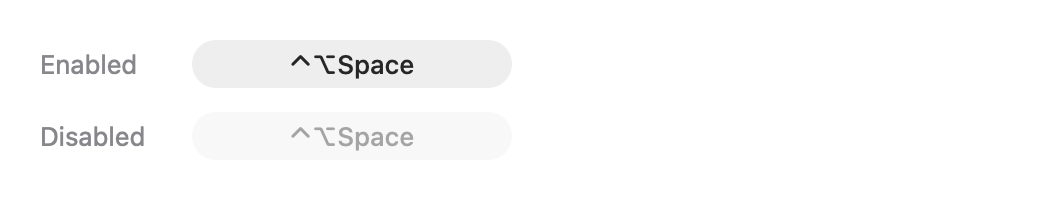
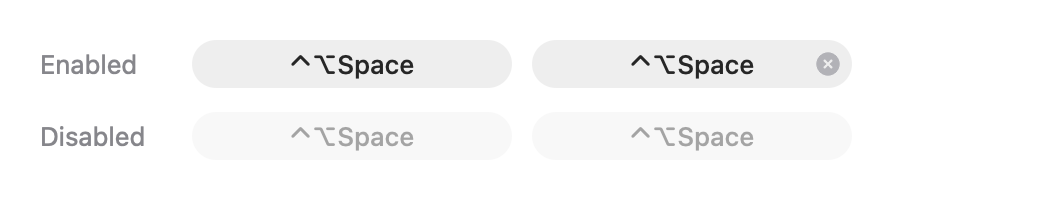
gallery: tests in both themes, fresh pictures

Changed region(s): [[0.5846, 0.27, 0.7385, 0.39], [0.5846, 0.63, 0.7385, 0.75], [0.7692, 0.27, 0.8308, 0.39]]

diff --git a/tests/gallery.rs b/tests/gallery.rs
@@ -2,17 +2,26 @@
 
 //! Harness tests for `examples/gallery.rs`: every block has a page that builds, named by the
 //! block; the sidebar turns the pages; a block's disabled variant reads disabled and its sizes
-//! differ; a block alone is as high as its variants; the alert asks and counts its action; and
-//! `docs/api.md` is the gallery's table, with a picture for every block.
+//! differ; a block alone is as high as its variants; in each appearance the widgets work and draw
+//! in its theme (a check box checks in its accent, a switch slides, the slider drags, a picker
+//! chooses by letters, a segment picks, a tooltip shows, a recorder records and its ⊗ clears,
+//! the alert asks in its theme, Escape closes it, its action counts), the search field draws in
+//! its theme and clears from its ⊗; assistive technology reads each widget by its role, the ⊗
+//! marks beside their controls; and `docs/api.md` and its pictures are the gallery's.
 
 #[path = "../examples/gallery.rs"]
 // The example sets the Windows subsystem, an attribute of its own crate, not of this module.
 #[allow(dead_code, unused_attributes)]
 mod gallery;
 
+mod common;
+
+use std::time::Duration;
+
+use common::{diff, mid, px, reads};
 use gallery::*;
 use nimbo::ui::{Action, Role};
-use nimbo::{Harness, Id, Size};
+use nimbo::{Appearance, Event, Harness, Id, Modifiers, NamedKey, Rect, Size, Theme, alpha, mix};
 
 type H = Harness<Gallery>;
 
@@ -26,12 +35,29 @@ fn page(name: &str) -> usize {
   BLOCKS.iter().position(|b| b.name == name).unwrap_or_else(|| panic!("no {name}"))
 }
 
-/// The id of the first node assistive technology reads as `role` named `name`.
-fn find(h: &H, role: Role, name: &str) -> Id {
+/// The first node assistive technology reads as `role` named `name`, in the enabled line: its
+/// id and rect.
+fn node(h: &H, role: Role, name: &str) -> (Id, Rect) {
   let t = h.a11y_tree();
   let n = t.nodes.iter().find(|n| n.props.role == role && t.str(n.props.name) == name);
-  n.unwrap_or_else(|| panic!("no {role:?} {name:?} in\n{}", h.a11y())).id
+  let n = n.unwrap_or_else(|| panic!("no {role:?} {name:?} in\n{}", h.a11y()));
+  (n.id, n.rect)
 }
+
+fn find(h: &H, role: Role, name: &str) -> Id {
+  node(h, role, name).0
+}
+
+/// The gallery on the page of block `name` in `look`.
+fn on(name: &str, look: Appearance) -> H {
+  let mut h = gallery(page(name), false);
+  h.event(Event::Appearance(look));
+  h.frame();
+  h
+}
+
+const LOOKS: [(Appearance, Theme); 2] =
+  [(Appearance::LIGHT, Theme::PLATES_LIGHT), (Appearance::DARK, Theme::PLATES_DARK)];
 
 #[test]
 fn every_block_has_a_page_named_by_it() {
@@ -57,7 +83,8 @@ fn the_sidebar_turns_the_pages() {
   );
 }
 
-/// The switch reads on in its enabled line, disabled in its disabled one; a large one is wider.
+/// The switch reads on in its enabled line, disabled in its disabled one; a large one is wider;
+/// a small button is lower than the regular one, a large one higher.
 #[test]
 fn variants_are_disabled_and_sized() {
   let h = gallery(page("Switch"), false);
@@ -70,15 +97,196 @@ fn variants_are_disabled_and_sized() {
   let widths: Vec<f32> =
     t.nodes.iter().filter(|n| n.props.role == Role::Switch).map(|n| n.rect.w).collect();
   assert!(widths[3] > widths[0], "large wider: {widths:?}");
+  let h = gallery(page("Button"), false);
+  let t = h.a11y_tree();
+  let hs: Vec<f32> = (t.nodes.iter())
+    .filter(|n| n.props.role == Role::Button && t.str(n.props.name) == "Bordered")
+    .map(|n| n.rect.h)
+    .collect();
+  assert!(hs.len() == 4 && hs[2] < hs[0] && hs[3] > hs[0], "small, large: {hs:?}");
 }
 
-/// Alone, a block's window is as high as its variants.
+/// Alone, a block's window is as wide as a page and as high as its variants, whatever it was.
 #[test]
 fn a_block_alone_is_as_high_as_its_variants() {
-  let h = gallery(page("Button"), true);
-  let size = h.size();
-  assert_eq!(size.w, WIDTH);
-  assert!(size.h > 100.0 && size.h < 300.0, "{size:?}");
+  for name in ["Button", "List sections", "Text"] {
+    let mut h = gallery(page(name), true);
+    h.frame();
+    let (size, block) = (h.size(), h.rect(Id::of(BLOCK)).unwrap());
+    assert_eq!((size.w, size.h), (WIDTH, block.h.ceil()), "{name}");
+  }
+}
+
+/// In each appearance: a check box checked in its theme's accent, a switch that slides, the
+/// slider dragged, a picker choosing by letters, a segment picked, a tooltip after a rest, a
+/// recorder recording a chord and its ⊗ clearing it, the alert in its theme.
+#[test]
+fn every_widget_in_both_themes() {
+  for (look, t) in LOOKS {
+    let mut h = on("Check box", look);
+    let (check, r) = node(&h, Role::CheckBox, "Wrap");
+    h.click_id(check);
+    h.leave();
+    h.wait(Duration::from_millis(300));
+    assert!(h.app().wrap);
+    assert_eq!(h.render().pixel(r.x + 8.0, r.y + r.h / 2.0 - 6.0), px(t.accent), "{look:?}");
+
+    let mut h = on("Switch", look);
+    let (switch, r) = node(&h, Role::Switch, "Live");
+    let at = |h: &mut H| h.render().pixel(r.x + 6.0, r.y + r.h / 2.0);
+    assert_eq!(at(&mut h), px(t.accent), "on, in the accent");
+    h.click_id(switch);
+    h.leave();
+    h.wait(Duration::from_millis(200));
+    assert!(!h.app().live && at(&mut h) != px(t.accent), "{look:?}");
+
+    let mut h = on("Slider", look);
+    let s = node(&h, Role::Slider, "Zoom").1;
+    h.press(s.x + 2.0, s.y + s.h / 2.0);
+    h.frame();
+    h.move_to(s.x + s.w / 2.0, s.y + s.h / 2.0);
+    h.frame();
+    h.release(s.x + s.w / 2.0, s.y + s.h / 2.0);
+    assert!((h.app().zoom - 100.0).abs() < 1.0, "{}", h.app().zoom);
+
+    let mut h = on("Picker", look);
+    let size = find(&h, Role::PopUpButton, "Size");
+    h.click_id(size);
+    h.frame();
+    h.frame();
+    assert!(h.rect(size.key("menu")).is_some(), "open");
+    h.key('l', Modifiers::empty());
+    h.key(NamedKey::Enter, Modifiers::empty());
+    h.frame();
+    assert_eq!(h.app().size, gallery::Size::Large);
+
+    let mut h = on("Segmented picker", look);
+    h.click_id(find(&h, Role::RadioButton, "Columns 3"));
+    assert_eq!(h.app().view, 2);
+
+    let mut h = on("Tooltip", look);
+    let (save, r) = node(&h, Role::Button, "Save");
+    let (x, y) = mid(r);
+    h.move_to(x, y);
+    h.wait(Duration::from_millis(400));
+    assert!(h.rect(save.key("tip")).is_some(), "the tip after a rest");
+
+    let mut h = on("Shortcut recorder", look);
+    // The recorder: a button with no name, its shortcut its value.
+    let t2 = h.a11y_tree();
+    let rec =
+      t2.nodes.iter().find(|n| n.props.role == Role::Button && t2.str(n.props.name).is_empty());
+    h.click_id(rec.expect("a recorder").id);
+    h.key(NamedKey::F5, Modifiers::ALT);
+    assert_eq!(h.app().hotkey.map(|k| k.to_string()).as_deref(), Some("option+f5"));
+    h.frame();
+    h.click_id(find(&h, Role::Button, "Clear"));
+    assert_eq!(h.app().hotkey, None, "the ⊗ clears it");
+
+    let mut h = on("Alert", look);
+    h.click_id(find(&h, Role::Button, "Delete…"));
+    h.wait(Duration::from_millis(200));
+    let dialog = Id::of(DIALOG);
+    let card = h.rect(dialog.key("card")).expect("the dialog");
+    let fill = h.render().pixel(card.x + card.w / 2.0, card.y + 8.0);
+    assert_eq!(fill, px(t.dialog), "{look:?}");
+    h.key(NamedKey::Escape, Modifiers::empty());
+    h.frame();
+    assert!(!h.app().ask && h.rect(dialog.key("card")).is_none());
+    h.click_id(find(&h, Role::Button, "Delete…"));
+    h.frame();
+    h.click_id(dialog.key("action"));
+    assert_eq!((h.app().deleted, h.app().ask), (1, false));
+  }
+}
+
+/// The search field in each theme's look over its ground; cleared from its ⊗, typed again, the
+/// text kept from one appearance to the other.
+#[test]
+fn the_search_field_in_both_themes() {
+  let mut h = on("Search field", Appearance::LIGHT);
+  for (look, t) in LOOKS {
+    h.event(Event::Appearance(look));
+    h.frame();
+    let (field, r) = node(&h, Role::TextField, "Search");
+    let fill = t.search().frame.bg;
+    let want = px(mix(t.bg, alpha(fill, 1.0), fill[3]));
+    let got = h.render().pixel(r.x + r.w / 2.0, r.y + 4.0);
+    assert!(diff(got, want) <= 1, "{look:?}: {got:?}, not {want:?}");
+    if look == Appearance::LIGHT {
+      h.click_id(field.key("clear"));
+      h.frame();
+      assert_eq!(h.app().query, "");
+      assert!(h.rect(field.key("clear")).is_none());
+      h.type_text("icons");
+      h.frame();
+    }
+  }
+
+  assert_eq!(h.app().query, "icons");
+  let field = find(&h, Role::TextField, "Search");
+  assert!(h.rect(field.key("clear")).is_some(), "its ⊗ back in the dark");
+}
+
+/// Each kind of widget is what it is to assistive technology: its role, name, value and states.
+#[test]
+fn every_widget_has_its_role() {
+  let pages: [(&str, &[&str]); 10] = [
+    ("Button", &["button \"Bordered\"", "button \"Prominent\" disabled"]),
+    (
+      "Help marks",
+      &[
+        "button \"Info\" desc \"An ⓘ explains what one line can't\"",
+        "button \"Warning\" desc \"A warning tells what is wrong\"",
+      ],
+    ),
+    ("Icon button", &["button \"Reset\""]),
+    ("Check box", &["check box \"Wrap\" off", "check box \"Wrap\" off disabled"]),
+    ("Switch", &["switch \"Live\" on"]),
+    ("Slider", &["slider \"Zoom\" 60 in 0..200"]),
+    (
+      "Picker",
+      &[
+        "pop up button \"Size\" value \"Medium\"",
+        "pop up button \"Size\" value \"Medium\" disabled",
+      ],
+    ),
+    (
+      "Segmented picker",
+      &["radio group", "radio button \"List 128\" on selected", "radio button \"Grid 12\" off"],
+    ),
+    ("Progress", &["progress indicator 0.42 in 0..1"]),
+    ("Link", &["link \"Learn more…\""]),
+  ];
+  for (name, lines) in pages {
+    let h = gallery(page(name), false);
+    reads(&h.a11y(), lines);
+  }
+
+  let h = gallery(page("Badge"), false);
+  reads(&h.a11y(), &["static text \"New\""]);
+  let h = gallery(page("Search field"), false);
+  reads(&h.a11y(), &["text field \"Search\" value \"Switches\"", "button \"Clear\""]);
+}
+
+/// The ⊗ of a recorder and of a search field are beside them, not inside the leaves, where a
+/// screen reader wouldn't reach them.
+#[test]
+fn clear_marks_are_beside_their_controls() {
+  for (name, first) in
+    [("Shortcut recorder", "button value "), ("Search field", "text field \"Search\" value")]
+  {
+    let h = gallery(page(name), false);
+    let dump = h.a11y();
+    // The recorder's value is the platform's label of its shortcut (⌃⌥Space, Ctrl+Alt+Space).
+    let lines: Vec<&str> = dump.lines().collect();
+    let at =
+      lines.iter().position(|l| l.trim_start().starts_with(first) && !l.contains("disabled"));
+    let at = at.unwrap_or_else(|| panic!("no {first} in\n{dump}"));
+    let next = lines[at + 1..].iter().find(|l| l.trim_start().starts_with("button \"Clear\""));
+    let depth = |l: &str| l.len() - l.trim_start().len();
+    assert_eq!(next.map(|l| depth(l)), Some(depth(lines[at])), "{name}: beside it\n{dump}");
+  }
 }
 
 #[test]
@@ -94,14 +302,30 @@ fn the_alert_asks_and_counts_its_action() {
   assert_eq!((h.app().ask, h.app().deleted), (false, 1));
 }
 
-/// `docs/api.md` is what the gallery's table makes, every block's picture beside it.
+/// `docs/api.md` is what the gallery's table makes, every block's picture beside it; on macOS,
+/// where `make api-shots` draws them, each picture is what the block draws now.
 #[test]
 fn the_api_doc_is_the_gallerys() {
   let root = env!("CARGO_MANIFEST_DIR");
   let doc = std::fs::read_to_string(format!("{root}/docs/api.md")).unwrap();
   assert!(doc == api_md(), "docs/api.md is stale: make api-shots");
-  for b in BLOCKS {
+  let fresh = std::env::temp_dir().join(format!("nimbo-api-{}", std::process::id()));
+  std::fs::create_dir_all(&fresh).unwrap();
+  for (i, b) in BLOCKS.iter().enumerate() {
     let png = format!("{root}/docs/api/{}.png", b.slug());
-    assert!(std::path::Path::new(&png).exists(), "no {png}: make api-shots");
+    let kept = std::fs::read(&png).unwrap_or_else(|_| panic!("no {png}: make api-shots"));
+    if !cfg!(target_os = "macos") {
+      continue;
+    }
+
+    // As `gallery <slug> --shot` draws it.
+    let mut h = Harness::new(Gallery::on(i, true), Size::new(WIDTH, 300.0), 2.0);
+    h.event(Event::Appearance(Appearance::LIGHT));
+    h.frame();
+    let now = fresh.join(format!("{}.png", b.slug()));
+    h.shot(&now).unwrap();
+    assert!(std::fs::read(&now).unwrap() == kept, "{png} is stale: make api-shots");
   }
+
+  _ = std::fs::remove_dir_all(&fresh);
 }

diff --git a/examples/gallery.rs b/examples/gallery.rs
@@ -23,6 +23,8 @@ use nimbo::{
 pub const SIDEBAR: &str = "sidebar";
 pub const PAGE: &str = "page";
 pub const DIALOG: &str = "dialog";
+/// A block alone ([Gallery::only]).
+pub const BLOCK: &str = "block";
 /// The width of a page, and of a block's picture.
 pub const WIDTH: f32 = 520.0;
 
@@ -347,9 +349,14 @@ impl Gallery {
         ui.badge("-4", Tone::Danger);
         ui.badge("Conflict", Tone::Warning);
       }),
-      "Shortcut recorder" => {
-        Self::variants(ui, Shown::Plain, |ui| _ = ui.shortcut(&mut self.hotkey))
-      }
+      "Shortcut recorder" => Self::variants(ui, Shown::Plain, |ui| {
+        ui.shortcut(&mut self.hotkey);
+        // The ⊗ that clears one, which the plates themes leave to a reset button.
+        let t = ui.theme();
+        ui.set_theme(nimbo::Theme { shortcut_clear: true, ..t });
+        ui.shortcut(&mut self.hotkey);
+        ui.set_theme(t);
+      }),
       "Help marks" => Self::variants(ui, Shown::Plain, |ui| {
         ui.help("An ⓘ explains what one line can't").info_button();
         ui.help("A warning tells what is wrong").warning_button();
@@ -530,11 +537,13 @@ impl Gallery {
 
 impl App for Gallery {
   fn view(&mut self, ui: &mut Ui) {
+    // The system's look, whatever a block set last frame.
+    ui.follow_system();
     let t = ui.theme();
     if self.only {
-      ui.fit_window_height(WIDTH, 60.0, 900.0);
+      ui.fit_window_height(WIDTH, 1.0, 900.0);
       let name = BLOCKS[self.page].name;
-      ui.col(Style::new().w(grow()).pad(20.0).bg(t.bg), |ui| self.demo(ui, name));
+      ui.id(BLOCK).col(Style::new().w(grow()).pad(20.0).bg(t.bg), |ui| self.demo(ui, name));
       return;
     }
 
